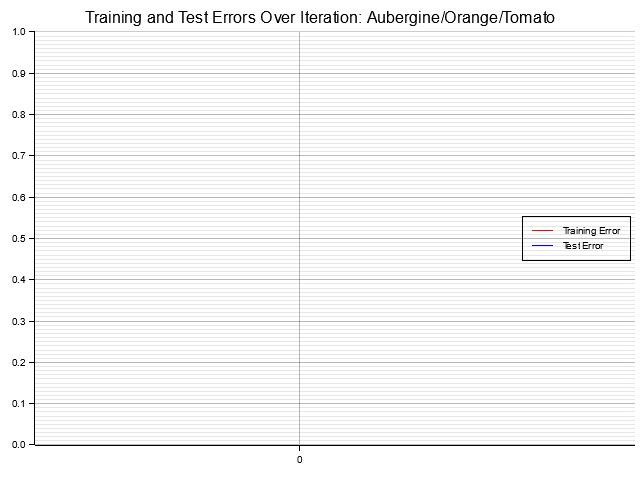
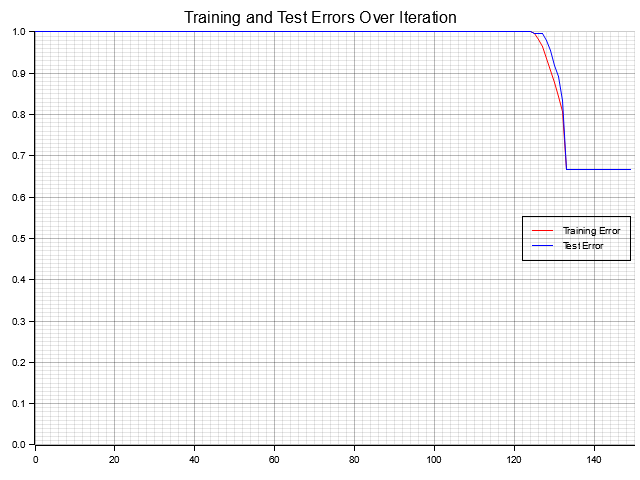
MLP

diff --git a/src/mlp_model.rs b/src/mlp_model.rs
@@ -7,7 +7,13 @@ use std::{fs, iter, path::Path};
 use std::f32::consts::E;
 use std::fs::File;
 use std::io::{self, Read, Write};
+use plotters::backend::BitMapBackend;
+use plotters::chart::ChartBuilder;
+use plotters::element::PathElement;
+use plotters::prelude::{BLACK, BLUE, IntoFont, LineSeries, RED, WHITE};
 use serde_json;
+use plotters::prelude::*;
+
 struct MLP {
     layers: usize,
     neurons_per_layer: Vec<usize>,
@@ -154,21 +160,19 @@ impl MLP {
     }
 
     // Entraînement du réseau avec un ensemble de données, un taux d'apprentissage et un nombre d'itérations
-    fn train(&mut self, training_data: Vec<(Vec<f32>, Vec<f32>)>, learning_rate: f32, n_iterations: usize) {
-        for epoch in 0..n_iterations {
-            let mut total_error = 0.0;
+    fn train(&mut self, training_data: &Vec<(Vec<f32>, Vec<f32>)>, learning_rate: f32, iter_num: usize) {
+        let mut total_error = 0.0;
 
-            // Propagation et rétropropagation pour chaque exemple d'entraînement
-            for (inputs, expected) in &training_data {
-                let outputs = self.forward_propagate(inputs.clone());
-                total_error += MLP::cross_entropy_error(&outputs, expected);
-                self.backward_propagate_error(expected.clone());
-                self.update_weights(inputs.clone(), learning_rate);
-            }
-
-            // Affichage de l'erreur moyenne après chaque époque
-            println!("Époque {}: Erreur moyenne = {}", epoch + 1, total_error / training_data.len() as f32);
+        // Propagation et rétropropagation pour chaque exemple d'entraînement
+        for (inputs, expected) in training_data {
+            let outputs = self.forward_propagate(inputs.clone());
+            total_error += MLP::cross_entropy_error(&outputs, expected);
+            self.backward_propagate_error(expected.clone());
+            self.update_weights(inputs.clone(), learning_rate);
         }
+
+        // Affichage de l'erreur moyenne après chaque époque
+        println!("Époque {}: Erreur moyenne = {}", iter_num, total_error / training_data.len() as f32);
     }
 
     // Sauvegarde des poids du réseau dans un fichier
@@ -224,6 +228,38 @@ impl MLP {
     }
 }
 
+fn plot_errors(train_errors: &Vec<f32>, test_errors: &Vec<f32>) -> Result<(), Box<dyn std::error::Error>> {
+
+    let name = format!("Stats MLP.png");
+    let title = "Training and Test Errors Over Iteration";
+    let root = BitMapBackend::new(&name, (640, 480)).into_drawing_area();
+    root.fill(&WHITE)?;
+    let mut chart = ChartBuilder::on(&root)
+        .caption(title, ("sans-serif", 20).into_font())
+        .margin(5)
+        .x_label_area_size(30)
+        .y_label_area_size(30)
+        .build_cartesian_2d(0..train_errors.len(), 0f32..1f32)?;
+
+    chart.configure_mesh().draw()?;
+
+    chart.draw_series(LineSeries::new(
+        train_errors.iter().enumerate().map(|(i, &err)| (i, err)),
+        &RED,
+    ))?.label("Training Error")
+        .legend(|(x, y)| PathElement::new(vec![(x, y), (x + 20, y)], &RED));
+
+    chart.draw_series(LineSeries::new(
+        test_errors.iter().enumerate().map(|(i, &err)| (i, err)),
+        &BLUE,
+    ))?.label("Test Error")
+        .legend(|(x, y)| PathElement::new(vec![(x, y), (x + 20, y)], &BLUE));
+
+    chart.configure_series_labels().border_style(&BLACK).draw()?;
+    Ok(())
+}
+
+
 
 // Chargement des images d'entraînement et de test en vecteurs normalisés
 fn load_images(folder_path: &str) -> Result<Vec<(Vec<f32>, Vec<f32>)>, String> {
@@ -245,21 +281,25 @@ fn load_images(folder_path: &str) -> Result<Vec<(Vec<f32>, Vec<f32>)>, String> {
     Ok(data)
 }
 // Évaluation de la précision du modèle sur les données de test
-fn evaluate_model(mlp: &mut MLP, test_data: Vec<(Vec<f32>, Vec<f32>)>) {
+fn evaluate_model(mlp: &mut MLP, test_data: &Vec<(Vec<f32>, Vec<f32>)>, isTest : bool) {
     let mut correct_predictions = 0;
-    for (pixels, expected) in &test_data { // Utiliser une référence ici
+    for (pixels, expected) in test_data { // Utiliser une référence ici
         let predicted = mlp.predict(pixels.clone()); // Clone pixels car mlp.predict prend la possession
         if predicted == expected.iter().position(|&r| r == 1.0).unwrap() {
             correct_predictions += 1;
         }
     }
     let accuracy = correct_predictions as f32 / test_data.len() as f32;
+    if(isTest){
+        mlp.test_errors.push(1.0-accuracy);
+    }else{
+        mlp.train_errors.push(1.0-accuracy);
+    }
     println!("Précision : {}", accuracy);
 }
 
 
 // Fonction principale pour exécuter les opérations du MLP
-
 pub fn main() {
     let should_train = true; // Mettez à true pour entraîner, false pour charger les poids et prédire
 
@@ -267,25 +307,29 @@ pub fn main() {
     let test_data = load_images("images/Test").expect("Erreur lors du chargement des images de test");
     let taille_image = training_data[0].0.len();
 
-    let mut mlp = MLP::new(vec![taille_image, 32, 16, 3]);
+    let mut mlp = MLP::new(vec![taille_image, 300, 150, 3]);
 
-    if should_train {
-        mlp.train(training_data, 0.001, 150);
-        evaluate_model(&mut mlp, test_data);
-        mlp.save_weights("model_weights_mlp.json").expect("Erreur lors de l'enregistrement des poids");
-    } else {
-
-        mlp.load_weights("model_weights_mlp.json").expect("Erreur lors du chargement des poids");
-        evaluate_model(&mut mlp, test_data);
+    for iter in 0..150{
+        if should_train {
+            mlp.train(&training_data, 0.001, iter);
+            evaluate_model(&mut mlp, &test_data, true);
+            evaluate_model(&mut mlp, &training_data, false);
+        } else {
+            mlp.load_weights("model_weights_mlp.json").expect("Erreur lors du chargement des poids");
+            evaluate_model(&mut mlp, &test_data, true);
+        }
     }
+
+    plot_errors(&mlp.train_errors, &mlp.test_errors).expect("Error generating image");
+
 
     // Testez avec un chemin d'image valide
 
-    let categories = ["Aubergine", "Orange", "Tomato"];
-    let img_path = "images/CHECK/orange/orange2.jpg"; // Mettez ici le chemin de votre image de test
-    let result = mlp.predict_image(img_path, &categories);
-    match result {
-        Ok(category) => println!("Catégorie prédite : {}", category),
-        Err(error) => println!("Erreur : {}", error),
-    }
+    // let categories = ["Aubergine", "Orange", "Tomato"];
+    // let img_path = "images/CHECK/orange/orange2.jpg"; // Mettez ici le chemin de votre image de test
+    // let result = mlp.predict_image(img_path, &categories);
+    // match result {
+    //     Ok(category) => println!("Catégorie prédite : {}", category),
+    //     Err(error) => println!("Erreur : {}", error),
+    // }
 }
